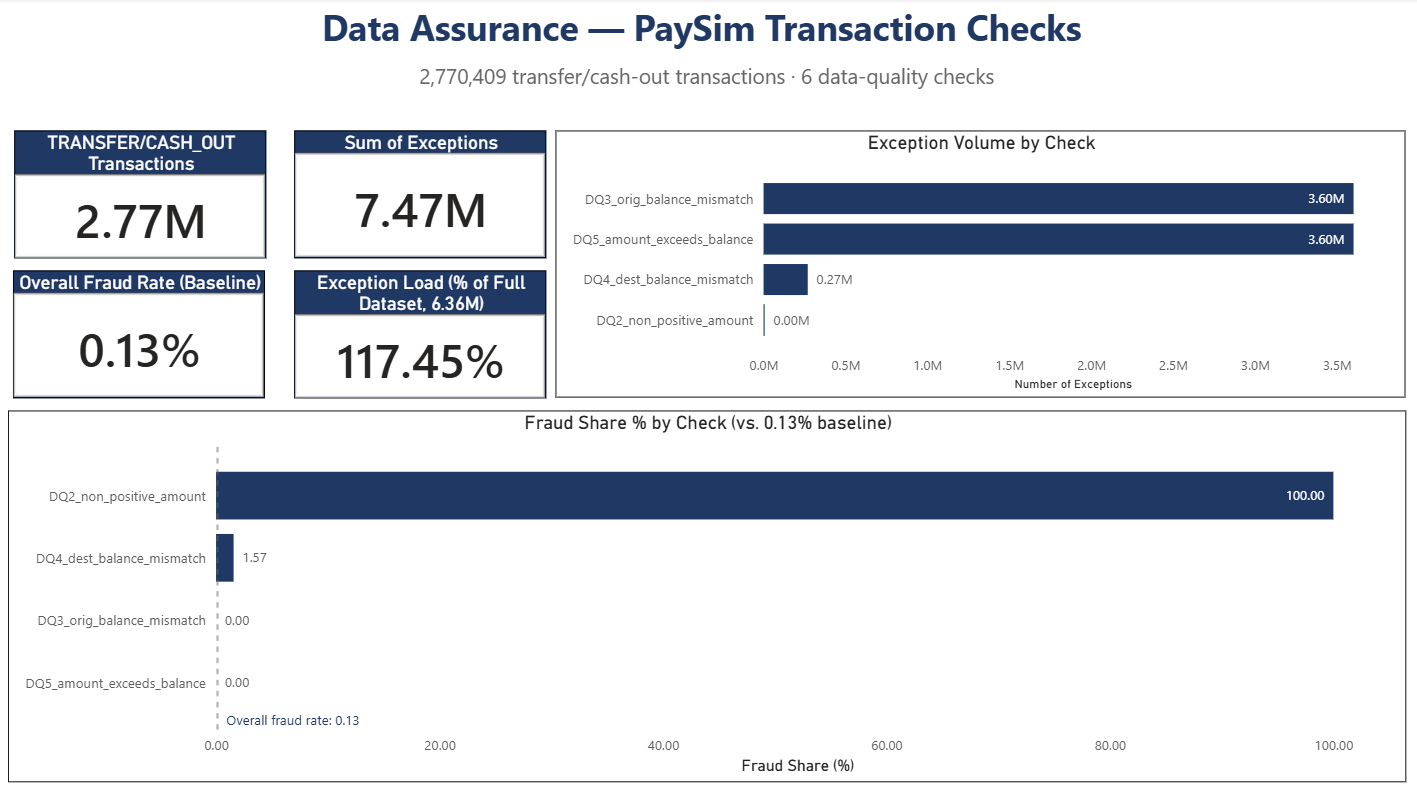
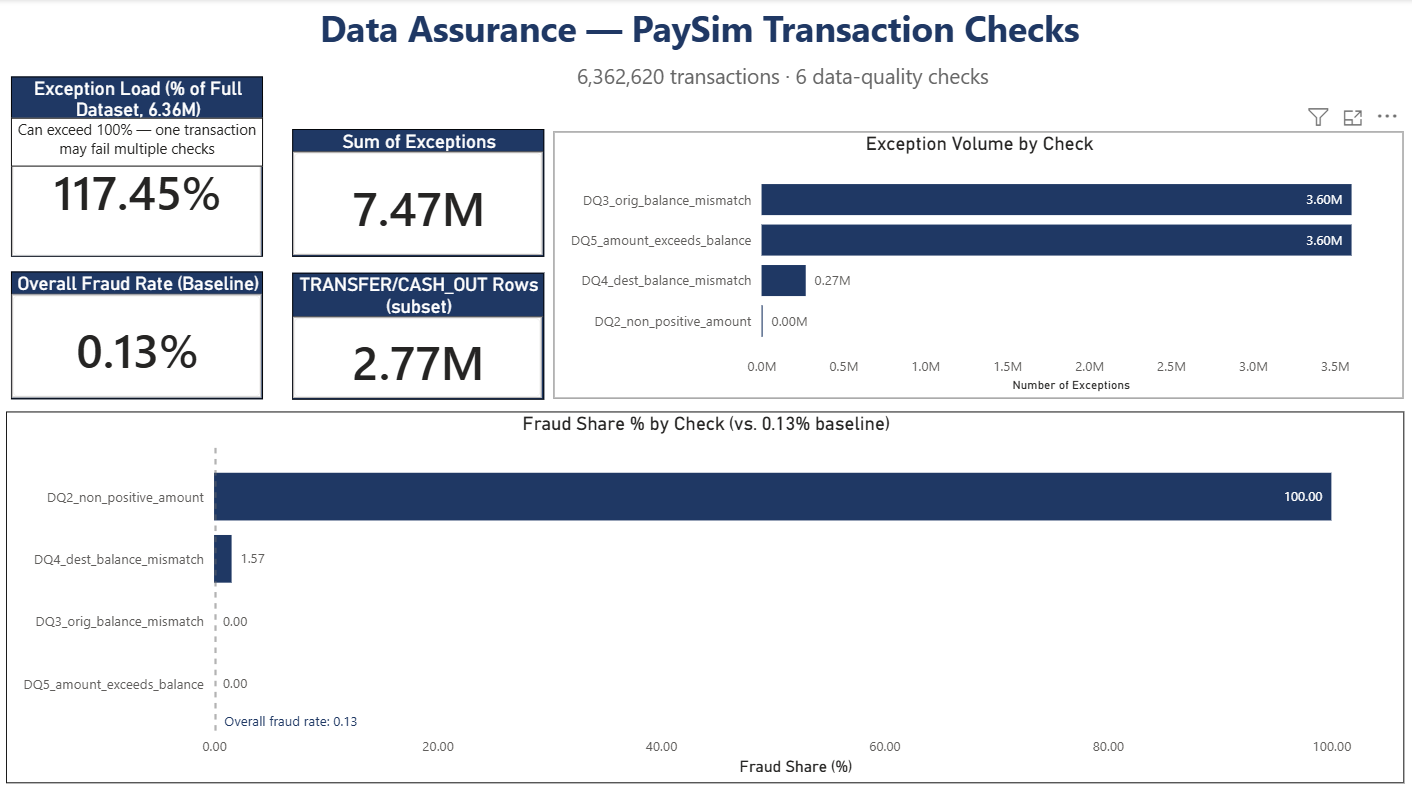
Fix controls population wording (6.36M full dataset) in memo, notes and dashboard

diff --git a/docs/research_memo.md b/docs/research_memo.md
@@ -9,8 +9,9 @@ Should the client rely on rule-based controls, a machine-learning model, or both
 catch payment fraud?
 
 ## 2. What the project showed
-I tested five SQL rule-based controls against 2,770,409 TRANSFER/CASH_OUT transactions,
-8,213 of them actual fraud. Results varied a lot. C3 (destination balance check) and C4
+I tested five SQL rule-based controls against the full PaySim dataset of 6,362,620
+transactions, 8,213 of them actual fraud (0.13%). The controls only look at TRANSFER and
+CASH_OUT rows (2,770,409 of the total), which is where all the fraud is. Results varied a lot. C3 (destination balance check) and C4
 (transfer-then-cashout) were the two solid ones — each caught about half the fraud at
 65-70% precision on the full dataset. The rest were weak. C2 (account drained) caught 97.55% of fraud, but
 precision was 0.67%: basically 99 out of 100 alerts it raises are false alarms. C1

diff --git a/docs/dashboard_notes.md b/docs/dashboard_notes.md
@@ -1,8 +1,9 @@
 # Power BI Dashboard Notes
 
 ## Power BI Page 1: Data Assurance
-- Total rows: 2,770,409 (transfer/cash-out subset) | Total exceptions flagged: ~7M (exceeds
-  row count because one transaction can fail multiple checks - UNION ALL)
+- Checks ran on all 6,362,620 transactions (the dashboard also shows the 2,770,409
+  TRANSFER/CASH_OUT subset as a separate card) | Total exceptions flagged: ~7.47M (exceeds
+  the row count because one transaction can fail multiple checks - UNION ALL)
 - DQ3 (3.60M exceptions) and DQ5 (3.60M exceptions): ~0% fraud share -> confirms these are
   PaySim data-generation artifacts, not real fraud signals (matches the earlier finding)
 - DQ4 (0.27M exceptions): 1.57% fraud share vs 0.13% overall baseline -> ~12x baseline,
